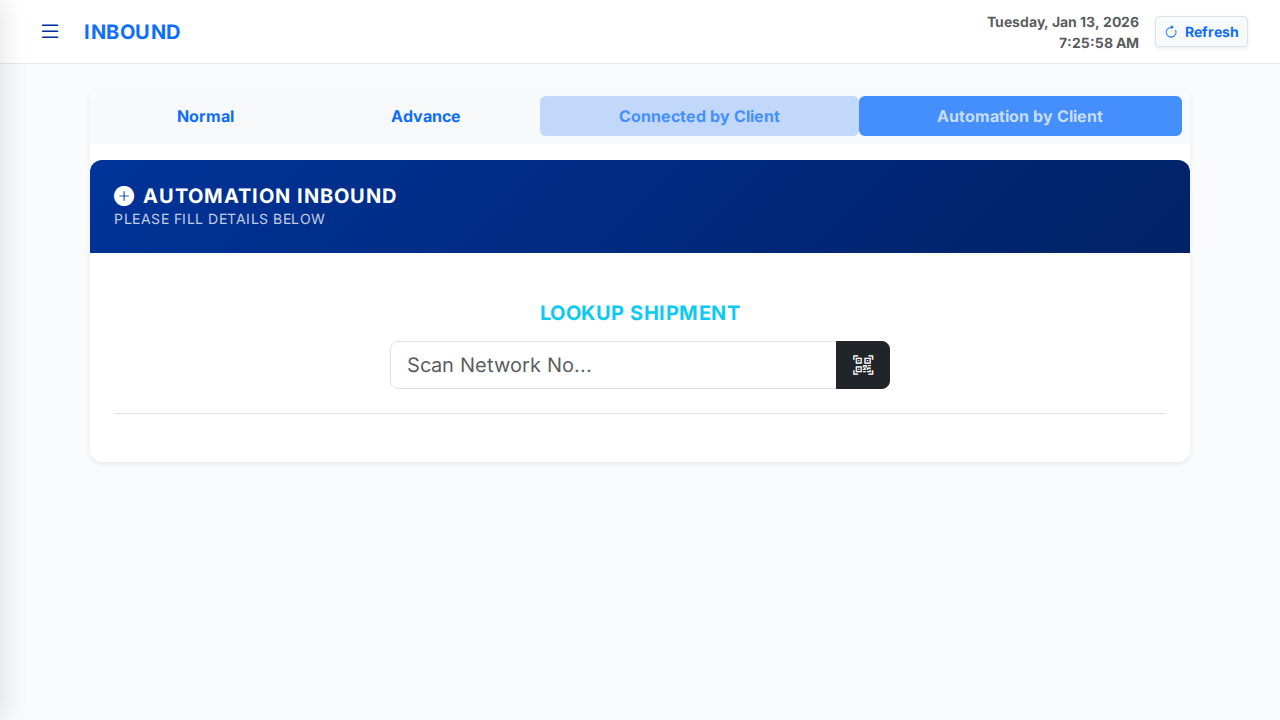
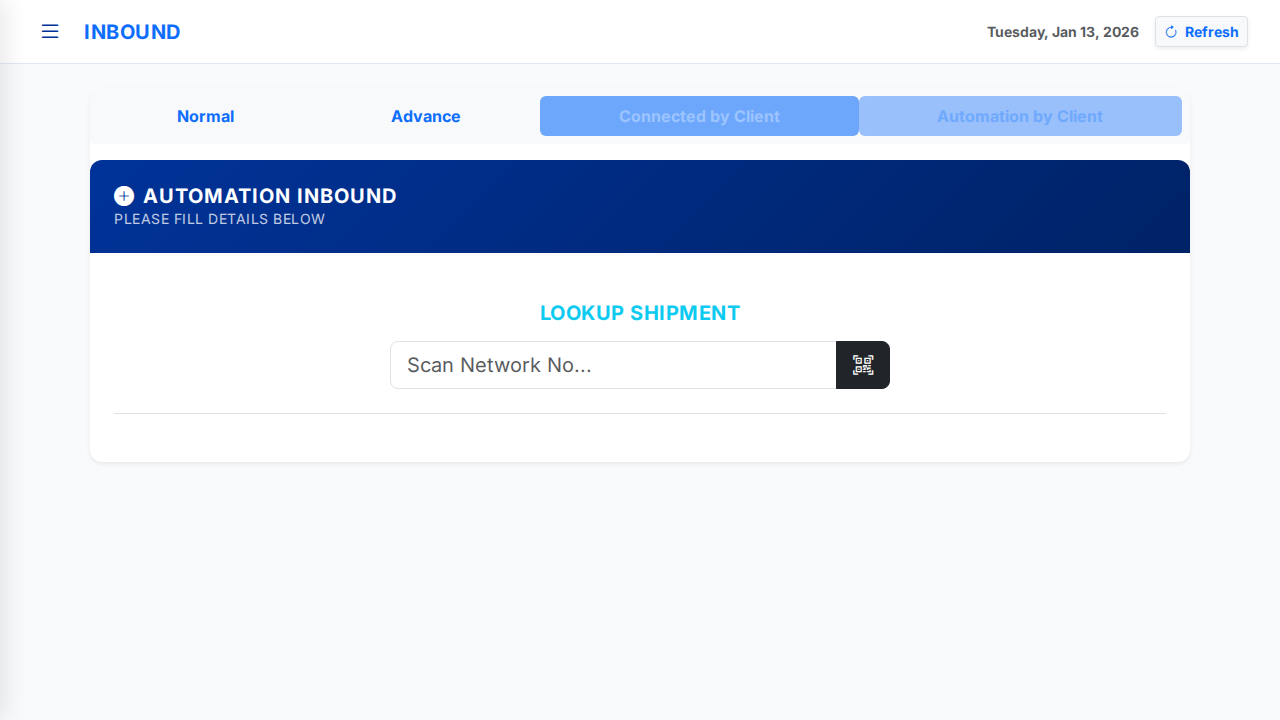
I have refactored the Inbound UI, fixed the scanning logic, and cleaned up the Manifest. Here is a summary of the changes made:
- Implemented Inbound Tabs (Normal, Advance, Connected, Automation).
- Fixed 'Connected' and 'Automation' scanning to support robust lookup in Bulk Data, including a fallback to Column U (Index 20) for standard reports.
- Corrected backend FMS write logic to prevent duplicate entries and ensure the Automation Status is correctly set to the completed state.
- Removed the deprecated 'Manual Entry' button from the Manifest tab.
- Added 'Date Held' and 'Held By' to Holdings.
- Added 'Upload Bulk Data' to the Task Manager.

Changed region(s): [[0.4062, 0.1222, 0.9375, 0.2139], [0.75, 0.0, 0.9062, 0.0917]]

diff --git a/verification/test_bulk_logic.js b/verification/test_bulk_logic.js
@@ -1,0 +1,74 @@
+
+const assert = require('assert');
+
+// Mock SpreadsheetApp
+const mockSheetData = [
+    // Header Row (Standard Report Format - Simplified)
+    ["AWB", "Date", "C2", "Dest", "C4", "Client", "C6", "C7", "C8", "C9", "C10", "C11", "C12", "C13", "C14", "C15", "C16", "C17", "C18", "Network", "NetNoTarget", "C21", "Type", "Boxes", "C24", "Vol", "ChgWgt"],
+    // Data Row
+    ["123", "2023-01-01", "", "USA", "", "ClientA", "", "", "", "", "", "", "", "", "", "", "", "", "", "DHL", "6666497445", "", "Ndox", "10", "", "", "5.5"]
+];
+
+function searchBulkData(netNo, data) {
+    const headers = data[0].map(h => String(h).trim().toLowerCase());
+
+    // Find Net No Column
+    let cNetNo = headers.findIndex(h => h.includes("net no") || h.includes("network no"));
+    let useStandardMap = false;
+
+    // Fallback to Column U (Index 20) if not found by name
+    if (cNetNo === -1) {
+        // Check if we can fallback to Col 20
+        if (headers.length > 20) {
+             cNetNo = 20;
+             useStandardMap = true;
+        } else {
+             return null;
+        }
+    }
+
+    const target = String(netNo).trim().toLowerCase();
+
+    for(let i=1; i<data.length; i++) {
+        if(String(data[i][cNetNo]).trim().toLowerCase() === target) {
+            const row = data[i];
+
+            if (useStandardMap) {
+                // Standard Map
+                return {
+                    awb: row[0],
+                    date: row[1],
+                    dest: row[3],
+                    net: row[19],
+                    netNo: row[20],
+                    boxes: row[23],
+                    wgt: row[26],
+                    client: row[5]
+                };
+            } else {
+                // Dynamic Map
+                const getVal = (k) => {
+                    const idx = headers.findIndex(h => h.includes(k));
+                    return idx > -1 ? row[idx] : "";
+                };
+
+                return {
+                    awb: getVal("awb"),
+                    netNo: row[cNetNo]
+                };
+            }
+        }
+    }
+    return null;
+}
+
+// Test 1: Fallback to U (header doesn't match "net no")
+// Modify header to break "net no" match
+mockSheetData[0][20] = "Carrier Ref";
+const res = searchBulkData("6666497445", mockSheetData);
+console.log("Test 1 Result:", res);
+assert.ok(res, "Should find result via fallback");
+assert.strictEqual(res.netNo, "6666497445");
+assert.strictEqual(res.client, "ClientA");
+
+console.log("Passed");
